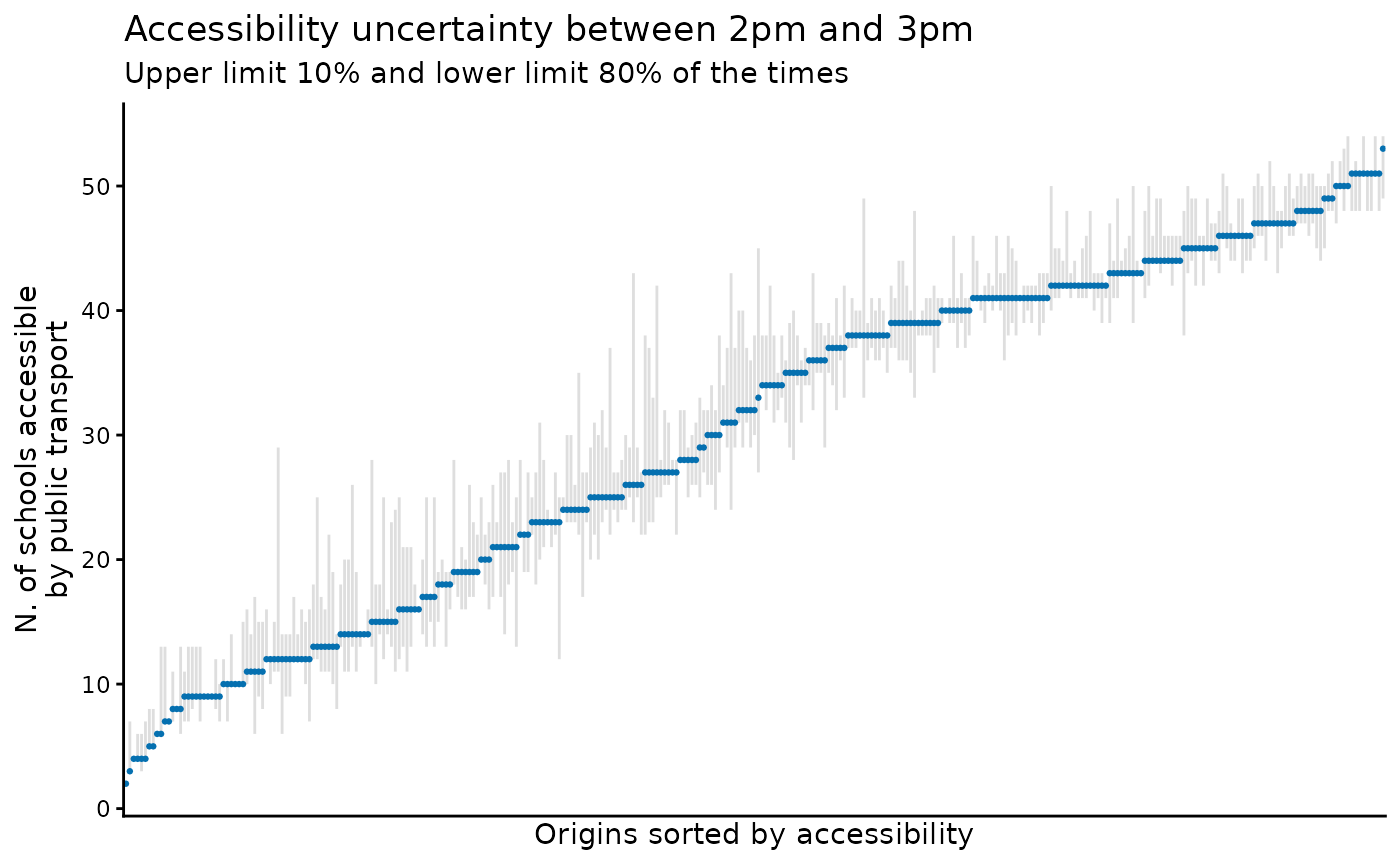
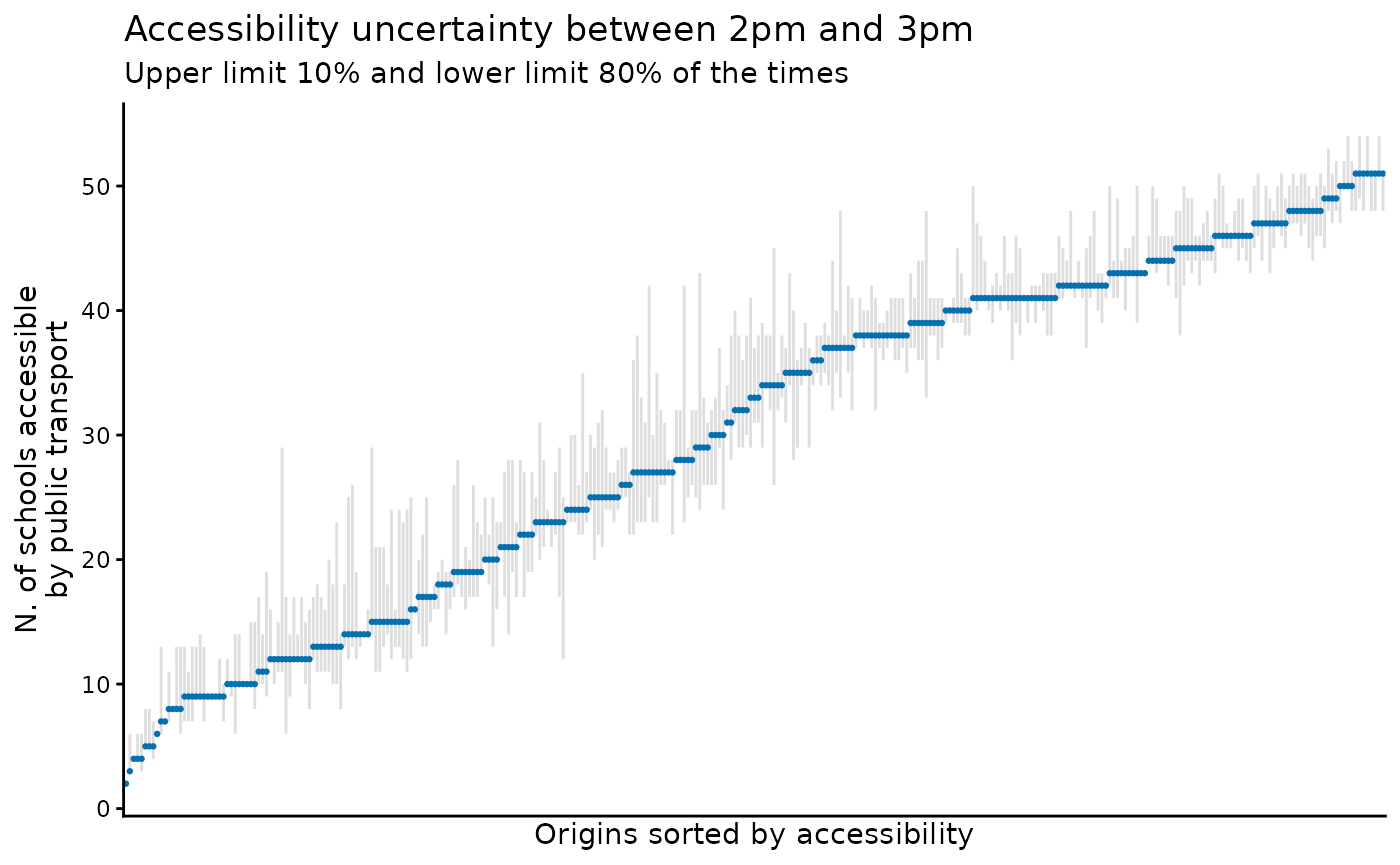
Built site for r5r@2.3.0.999: 461a6c3

Changed region(s): [[0.0921, 0.1561, 1.0, 0.8428]]

diff --git a/dev/reference/r5r_sitrep.html b/dev/reference/r5r_sitrep.html
@@ -94,13 +94,13 @@ and R5 Jar in use, the memory set to Java and user's Session Info.</p>
 <span class="r-out co"><span class="r-pr">#&gt;</span> [1] "7.4"</span>
 <span class="r-out co"><span class="r-pr">#&gt;</span> </span>
 <span class="r-out co"><span class="r-pr">#&gt;</span> $java_version</span>
-<span class="r-out co"><span class="r-pr">#&gt;</span> [1] "21.0.10"</span>
+<span class="r-out co"><span class="r-pr">#&gt;</span> [1] "21.0.11"</span>
 <span class="r-out co"><span class="r-pr">#&gt;</span> </span>
 <span class="r-out co"><span class="r-pr">#&gt;</span> $set_memory</span>
 <span class="r-out co"><span class="r-pr">#&gt;</span> [1] "-Xmx2G"</span>
 <span class="r-out co"><span class="r-pr">#&gt;</span> </span>
 <span class="r-out co"><span class="r-pr">#&gt;</span> $session_info</span>
-<span class="r-out co"><span class="r-pr">#&gt;</span> R version 4.5.3 (2026-03-11)</span>
+<span class="r-out co"><span class="r-pr">#&gt;</span> R version 4.6.0 (2026-04-24)</span>
 <span class="r-out co"><span class="r-pr">#&gt;</span> Platform: x86_64-pc-linux-gnu</span>
 <span class="r-out co"><span class="r-pr">#&gt;</span> Running under: Ubuntu 22.04.5 LTS</span>
 <span class="r-out co"><span class="r-pr">#&gt;</span> </span>
@@ -123,36 +123,36 @@ and R5 Jar in use, the memory set to Java and user's Session Info.</p>
 <span class="r-out co"><span class="r-pr">#&gt;</span> [1] stats     graphics  grDevices utils     datasets  methods   base     </span>
 <span class="r-out co"><span class="r-pr">#&gt;</span> </span>
 <span class="r-out co"><span class="r-pr">#&gt;</span> other attached packages:</span>
-<span class="r-out co"><span class="r-pr">#&gt;</span> [1] ggplot2_4.0.2 r5r_2.3.0.999</span>
+<span class="r-out co"><span class="r-pr">#&gt;</span> [1] ggplot2_4.0.3 r5r_2.3.0.999</span>
 <span class="r-out co"><span class="r-pr">#&gt;</span> </span>
 <span class="r-out co"><span class="r-pr">#&gt;</span> loaded via a namespace (and not attached):</span>
 <span class="r-out co"><span class="r-pr">#&gt;</span>  [1] gtable_0.3.6        xfun_0.57           bslib_0.10.0       </span>
-<span class="r-out co"><span class="r-pr">#&gt;</span>  [4] httr2_1.2.2         htmlwidgets_1.6.4   processx_3.8.6     </span>
-<span class="r-out co"><span class="r-pr">#&gt;</span>  [7] rJava_1.0-16        callr_3.7.6         vctrs_0.7.2        </span>
-<span class="r-out co"><span class="r-pr">#&gt;</span> [10] tools_4.5.3         ps_1.9.1            generics_0.1.4     </span>
-<span class="r-out co"><span class="r-pr">#&gt;</span> [13] curl_7.0.0          proxy_0.4-29        tibble_3.3.1       </span>
+<span class="r-out co"><span class="r-pr">#&gt;</span>  [4] httr2_1.2.2         htmlwidgets_1.6.4   processx_3.9.0     </span>
+<span class="r-out co"><span class="r-pr">#&gt;</span>  [7] rJava_1.0-18        callr_3.7.6         vctrs_0.7.3        </span>
+<span class="r-out co"><span class="r-pr">#&gt;</span> [10] tools_4.6.0         ps_1.9.3            generics_0.1.4     </span>
+<span class="r-out co"><span class="r-pr">#&gt;</span> [13] curl_7.1.0          proxy_0.4-29        tibble_3.3.1       </span>
 <span class="r-out co"><span class="r-pr">#&gt;</span> [16] fansi_1.0.7         sfheaders_0.4.5     pkgconfig_2.0.3    </span>
 <span class="r-out co"><span class="r-pr">#&gt;</span> [19] KernSmooth_2.23-26  data.table_1.18.2.1 checkmate_2.3.4    </span>
-<span class="r-out co"><span class="r-pr">#&gt;</span> [22] RColorBrewer_1.1-3  S7_0.2.1            desc_1.4.3         </span>
-<span class="r-out co"><span class="r-pr">#&gt;</span> [25] lifecycle_1.0.5     compiler_4.5.3      farver_2.1.2       </span>
+<span class="r-out co"><span class="r-pr">#&gt;</span> [22] RColorBrewer_1.1-3  S7_0.2.2            desc_1.4.3         </span>
+<span class="r-out co"><span class="r-pr">#&gt;</span> [25] lifecycle_1.0.5     compiler_4.6.0      farver_2.1.2       </span>
 <span class="r-out co"><span class="r-pr">#&gt;</span> [28] brio_1.1.5          textshaping_1.0.5   fontawesome_0.5.3  </span>
 <span class="r-out co"><span class="r-pr">#&gt;</span> [31] class_7.3-23        htmltools_0.5.9     sass_0.4.10        </span>
 <span class="r-out co"><span class="r-pr">#&gt;</span> [34] yaml_2.3.12         pillar_1.11.1       pkgdown_2.2.0      </span>
-<span class="r-out co"><span class="r-pr">#&gt;</span> [37] jquerylib_0.1.4     whisker_0.4.1       openssl_2.3.5      </span>
+<span class="r-out co"><span class="r-pr">#&gt;</span> [37] jquerylib_0.1.4     whisker_0.4.1       openssl_2.4.0      </span>
 <span class="r-out co"><span class="r-pr">#&gt;</span> [40] classInt_0.4-11     cachem_1.1.0        wk_0.9.5           </span>
 <span class="r-out co"><span class="r-pr">#&gt;</span> [43] zip_2.3.3           tidyselect_1.2.1    digest_0.6.39      </span>
-<span class="r-out co"><span class="r-pr">#&gt;</span> [46] sf_1.1-0            dplyr_1.2.0         purrr_1.2.1        </span>
-<span class="r-out co"><span class="r-pr">#&gt;</span> [49] labeling_0.4.3      fastmap_1.2.0       grid_4.5.3         </span>
-<span class="r-out co"><span class="r-pr">#&gt;</span> [52] cli_3.6.5           magrittr_2.0.4      e1071_1.7-17       </span>
-<span class="r-out co"><span class="r-pr">#&gt;</span> [55] withr_3.0.2         scales_1.4.0        backports_1.5.0    </span>
+<span class="r-out co"><span class="r-pr">#&gt;</span> [46] sf_1.1-0            dplyr_1.2.1         purrr_1.2.2        </span>
+<span class="r-out co"><span class="r-pr">#&gt;</span> [49] labeling_0.4.3      fastmap_1.2.0       grid_4.6.0         </span>
+<span class="r-out co"><span class="r-pr">#&gt;</span> [52] cli_3.6.6           magrittr_2.0.5      e1071_1.7-17       </span>
+<span class="r-out co"><span class="r-pr">#&gt;</span> [55] withr_3.0.2         scales_1.4.0        backports_1.5.1    </span>
 <span class="r-out co"><span class="r-pr">#&gt;</span> [58] rappdirs_0.3.4      rmarkdown_2.31      otel_0.2.0         </span>
 <span class="r-out co"><span class="r-pr">#&gt;</span> [61] askpass_1.2.1       ragg_1.5.2          memoise_2.0.1      </span>
 <span class="r-out co"><span class="r-pr">#&gt;</span> [64] evaluate_1.0.5      knitr_1.51          testthat_3.3.2     </span>
-<span class="r-out co"><span class="r-pr">#&gt;</span> [67] s2_1.1.9            rlang_1.1.7         isoband_0.3.0      </span>
-<span class="r-out co"><span class="r-pr">#&gt;</span> [70] Rcpp_1.1.1          downlit_0.4.5       glue_1.8.0         </span>
+<span class="r-out co"><span class="r-pr">#&gt;</span> [67] s2_1.1.9            rlang_1.2.0         isoband_0.3.0      </span>
+<span class="r-out co"><span class="r-pr">#&gt;</span> [70] Rcpp_1.1.1-1.1      downlit_0.4.5       glue_1.8.1         </span>
 <span class="r-out co"><span class="r-pr">#&gt;</span> [73] DBI_1.3.0           xml2_1.5.2          rstudioapi_0.18.0  </span>
 <span class="r-out co"><span class="r-pr">#&gt;</span> [76] jsonlite_2.0.0      R6_2.6.1            rJavaEnv_0.3.0     </span>
-<span class="r-out co"><span class="r-pr">#&gt;</span> [79] units_1.0-1         systemfonts_1.3.2   fs_2.0.1           </span>
+<span class="r-out co"><span class="r-pr">#&gt;</span> [79] units_1.0-1         systemfonts_1.3.2   fs_2.1.0           </span>
 <span class="r-out co"><span class="r-pr">#&gt;</span> </span>
 </code></pre></div>
     </div>

diff --git a/dev/articles/time_window.html b/dev/articles/time_window.html
@@ -80,7 +80,7 @@
   <main id="main" class="col-md-9"><div class="page-header">
       <img src="../logo.png" class="logo" alt=""><h1>Using the time_window parameter</h1>
             
-            <h4 data-toc-skip class="date">2026-03-28</h4>
+            <h4 data-toc-skip class="date">2026-04-27</h4>
       
       <small class="dont-index">Source: <a href="https://github.com/ipeaGIT/r5r/blob/master/vignettes/time_window.Rmd" class="external-link"><code>vignettes/time_window.Rmd</code></a></small>
       <div class="d-none name"><code>time_window.Rmd</code></div>
@@ -235,12 +235,12 @@ minutes <code>cutoffs = 45</code>.</p>
 <span><span class="co">#&gt;              &lt;char&gt;      &lt;char&gt;      &lt;int&gt;  &lt;int&gt;         &lt;num&gt;</span></span>
 <span><span class="co">#&gt;  1: 89a8100c603ffff     schools         10     45            13</span></span>
 <span><span class="co">#&gt;  2: 89a8100c603ffff     schools         20     45            13</span></span>
-<span><span class="co">#&gt;  3: 89a8100c603ffff     schools         50     45             6</span></span>
+<span><span class="co">#&gt;  3: 89a8100c603ffff     schools         50     45             7</span></span>
 <span><span class="co">#&gt;  4: 89a8100c603ffff     schools         70     45             6</span></span>
 <span><span class="co">#&gt;  5: 89a8100c603ffff     schools         80     45             6</span></span>
 <span><span class="co">#&gt;  6: 89a8100c617ffff     schools         10     45            14</span></span>
 <span><span class="co">#&gt;  7: 89a8100c617ffff     schools         20     45            14</span></span>
-<span><span class="co">#&gt;  8: 89a8100c617ffff     schools         50     45            12</span></span>
+<span><span class="co">#&gt;  8: 89a8100c617ffff     schools         50     45            10</span></span>
 <span><span class="co">#&gt;  9: 89a8100c617ffff     schools         70     45             6</span></span>
 <span><span class="co">#&gt; 10: 89a8100c617ffff     schools         80     45             6</span></span></code></pre></div>
 <p>This output is in long format, so the first 5 rows show the result
@@ -367,16 +367,16 @@ sets and time windows.</p>
 <span><span class="co">#&gt; 10: 89a8100c603ffff 89a8100c28bffff       14:01:00           5 4491-10</span></span>
 <span><span class="co">#&gt;     total_time</span></span>
 <span><span class="co">#&gt;          &lt;num&gt;</span></span>
-<span><span class="co">#&gt;  1:       47.0</span></span>
-<span><span class="co">#&gt;  2:       50.6</span></span>
-<span><span class="co">#&gt;  3:       35.8</span></span>
-<span><span class="co">#&gt;  4:       42.6</span></span>
-<span><span class="co">#&gt;  5:       34.9</span></span>
-<span><span class="co">#&gt;  6:       49.2</span></span>
-<span><span class="co">#&gt;  7:       50.3</span></span>
-<span><span class="co">#&gt;  8:       40.3</span></span>
-<span><span class="co">#&gt;  9:       51.9</span></span>
-<span><span class="co">#&gt; 10:       46.4</span></span></code></pre></div>
+<span><span class="co">#&gt;  1:       50.9</span></span>
+<span><span class="co">#&gt;  2:       46.4</span></span>
+<span><span class="co">#&gt;  3:       39.2</span></span>
+<span><span class="co">#&gt;  4:       42.1</span></span>
+<span><span class="co">#&gt;  5:       36.1</span></span>
+<span><span class="co">#&gt;  6:       53.8</span></span>
+<span><span class="co">#&gt;  7:       45.8</span></span>
+<span><span class="co">#&gt;  8:       46.3</span></span>
+<span><span class="co">#&gt;  9:       37.7</span></span>
+<span><span class="co">#&gt; 10:       41.7</span></span></code></pre></div>
 </div>
 <div class="section level3">
 <h3 id="detailed-itineraries-with-time_window-">3.5 Detailed itineraries with <code>time_window</code>.<a class="anchor" aria-label="anchor" href="#detailed-itineraries-with-time_window-"></a>

diff --git a/dev/reference/download_r5.html b/dev/reference/download_r5.html
@@ -105,8 +105,8 @@ directory. Defaults to <code>FALSE</code>.</p></dd>
     <div class="sourceCode"><pre class="sourceCode r"><code><span class="r-in"><span><span class="kw"><a href="https://rdrr.io/r/base/library.html" class="external-link">library</a></span><span class="op">(</span><span class="va"><a href="https://github.com/ipeaGIT/r5r" class="external-link">r5r</a></span><span class="op">)</span></span></span>
 <span class="r-in"><span></span></span>
 <span class="r-in"><span><span class="fu">download_r5</span><span class="op">(</span>temp_dir <span class="op">=</span> <span class="cn">TRUE</span><span class="op">)</span></span></span>
-<span class="r-msg co"><span class="r-pr">#&gt;</span> Downloading R5 jar file to /tmp/RtmpTHw8kh/r5-v7.4-all.jar</span>
-<span class="r-out co"><span class="r-pr">#&gt;</span> [1] "/tmp/RtmpTHw8kh/r5-v7.4-all.jar"</span>
+<span class="r-msg co"><span class="r-pr">#&gt;</span> Downloading R5 jar file to /tmp/Rtmpy9PHaP/r5-v7.4-all.jar</span>
+<span class="r-out co"><span class="r-pr">#&gt;</span> [1] "/tmp/Rtmpy9PHaP/r5-v7.4-all.jar"</span>
 </code></pre></div>
     </div>
   </main><aside class="col-md-3"><nav id="toc" aria-label="Table of contents"><h2>On this page</h2>

diff --git a/dev/articles/accessibility.html b/dev/articles/accessibility.html
@@ -80,7 +80,7 @@
   <main id="main" class="col-md-9"><div class="page-header">
       <img src="../logo.png" class="logo" alt=""><h1>Accessibility</h1>
             
-            <h4 data-toc-skip class="date">2026-03-28</h4>
+            <h4 data-toc-skip class="date">2026-04-27</h4>
       
       <small class="dont-index">Source: <a href="https://github.com/ipeaGIT/r5r/blob/master/vignettes/accessibility.Rmd" class="external-link"><code>vignettes/accessibility.Rmd</code></a></small>
       <div class="d-none name"><code>accessibility.Rmd</code></div>

diff --git a/dev/articles/detailed_itineraries.html b/dev/articles/detailed_itineraries.html
@@ -80,7 +80,7 @@
   <main id="main" class="col-md-9"><div class="page-header">
       <img src="../logo.png" class="logo" alt=""><h1>Trip planning with detailed_itineraries()</h1>
             
-            <h4 data-toc-skip class="date">2026-03-28</h4>
+            <h4 data-toc-skip class="date">2026-04-27</h4>
       
       <small class="dont-index">Source: <a href="https://github.com/ipeaGIT/r5r/blob/master/vignettes/detailed_itineraries.Rmd" class="external-link"><code>vignettes/detailed_itineraries.Rmd</code></a></small>
       <div class="d-none name"><code>detailed_itineraries.Rmd</code></div>

diff --git a/dev/articles/faq.html b/dev/articles/faq.html
@@ -80,7 +80,7 @@
   <main id="main" class="col-md-9"><div class="page-header">
       <img src="../logo.png" class="logo" alt=""><h1>FAQ - Frequently Asked Questions</h1>
             
-            <h4 data-toc-skip class="date">2026-03-28</h4>
+            <h4 data-toc-skip class="date">2026-04-27</h4>
       
       <small class="dont-index">Source: <a href="https://github.com/ipeaGIT/r5r/blob/master/vignettes/faq.Rmd" class="external-link"><code>vignettes/faq.Rmd</code></a></small>
       <div class="d-none name"><code>faq.Rmd</code></div>

diff --git a/dev/articles/fare_structure.html b/dev/articles/fare_structure.html
@@ -80,7 +80,7 @@
   <main id="main" class="col-md-9"><div class="page-header">
       <img src="../logo.png" class="logo" alt=""><h1>Accounting for monetary costs</h1>
             
-            <h4 data-toc-skip class="date">2026-03-28</h4>
+            <h4 data-toc-skip class="date">2026-04-27</h4>
       
       <small class="dont-index">Source: <a href="https://github.com/ipeaGIT/r5r/blob/master/vignettes/fare_structure.Rmd" class="external-link"><code>vignettes/fare_structure.Rmd</code></a></small>
       <div class="d-none name"><code>fare_structure.Rmd</code></div>

diff --git a/dev/articles/isochrones.html b/dev/articles/isochrones.html
@@ -80,7 +80,7 @@
   <main id="main" class="col-md-9"><div class="page-header">
       <img src="../logo.png" class="logo" alt=""><h1>Isochrones</h1>
             
-            <h4 data-toc-skip class="date">2026-03-28</h4>
+            <h4 data-toc-skip class="date">2026-04-27</h4>
       
       <small class="dont-index">Source: <a href="https://github.com/ipeaGIT/r5r/blob/master/vignettes/isochrones.Rmd" class="external-link"><code>vignettes/isochrones.Rmd</code></a></small>
       <div class="d-none name"><code>isochrones.Rmd</code></div>

diff --git a/dev/articles/pareto_frontier.html b/dev/articles/pareto_frontier.html
@@ -80,7 +80,7 @@
   <main id="main" class="col-md-9"><div class="page-header">
       <img src="../logo.png" class="logo" alt=""><h1>Trade-offs between travel time and monetary cost</h1>
             
-            <h4 data-toc-skip class="date">2026-03-28</h4>
+            <h4 data-toc-skip class="date">2026-04-27</h4>
       
       <small class="dont-index">Source: <a href="https://github.com/ipeaGIT/r5r/blob/master/vignettes/pareto_frontier.Rmd" class="external-link"><code>vignettes/pareto_frontier.Rmd</code></a></small>
       <div class="d-none name"><code>pareto_frontier.Rmd</code></div>

diff --git a/dev/articles/r5r.html b/dev/articles/r5r.html
@@ -82,7 +82,7 @@
                         <h4 data-toc-skip class="author">Rafael H. M.
 Pereira, Marcus Saraiva, Daniel Herszenhut, Carlos Kaue Braga</h4>
             
-            <h4 data-toc-skip class="date">2026-03-28</h4>
+            <h4 data-toc-skip class="date">2026-04-27</h4>
       
       <small class="dont-index">Source: <a href="https://github.com/ipeaGIT/r5r/blob/master/vignettes/r5r.Rmd" class="external-link"><code>vignettes/r5r.Rmd</code></a></small>
       <div class="d-none name"><code>r5r.Rmd</code></div>

diff --git a/dev/articles/scenarios.html b/dev/articles/scenarios.html
@@ -87,7 +87,7 @@
   <main id="main" class="col-md-9"><div class="page-header">
       <img src="../logo.png" class="logo" alt=""><h1>Using custom OSM car speeds and LTS</h1>
             
-            <h4 data-toc-skip class="date">2026-03-28</h4>
+            <h4 data-toc-skip class="date">2026-04-27</h4>
       
       <small class="dont-index">Source: <a href="https://github.com/ipeaGIT/r5r/blob/master/vignettes/scenarios.Rmd" class="external-link"><code>vignettes/scenarios.Rmd</code></a></small>
       <div class="d-none name"><code>scenarios.Rmd</code></div>

diff --git a/dev/articles/travel_time_matrix.html b/dev/articles/travel_time_matrix.html
@@ -80,7 +80,7 @@
   <main id="main" class="col-md-9"><div class="page-header">
       <img src="../logo.png" class="logo" alt=""><h1>Travel time matrices</h1>
             
-            <h4 data-toc-skip class="date">2026-03-28</h4>
+            <h4 data-toc-skip class="date">2026-04-27</h4>
       
       <small class="dont-index">Source: <a href="https://github.com/ipeaGIT/r5r/blob/master/vignettes/travel_time_matrix.Rmd" class="external-link"><code>vignettes/travel_time_matrix.Rmd</code></a></small>
       <div class="d-none name"><code>travel_time_matrix.Rmd</code></div>